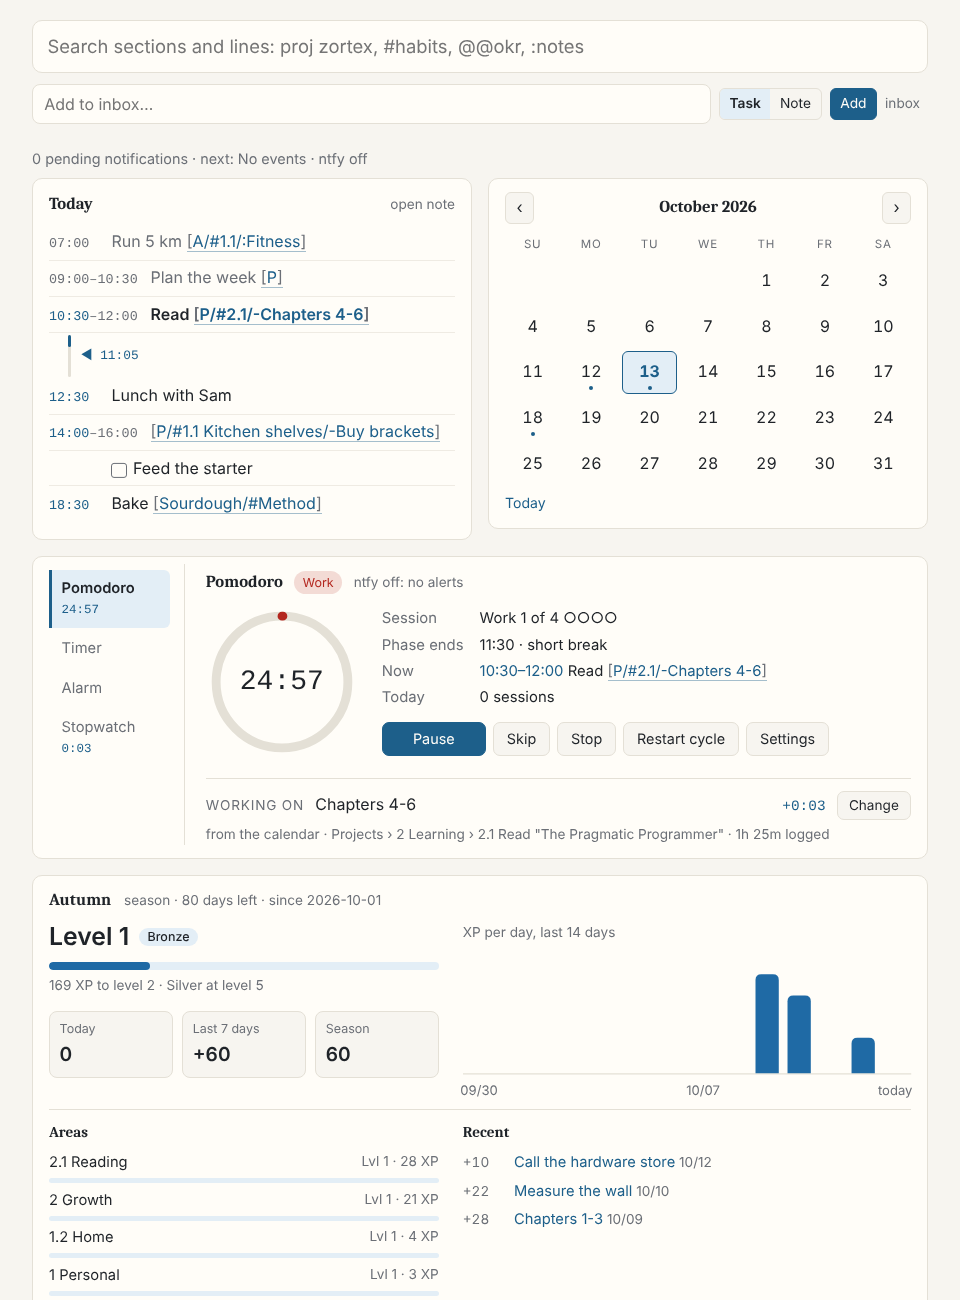
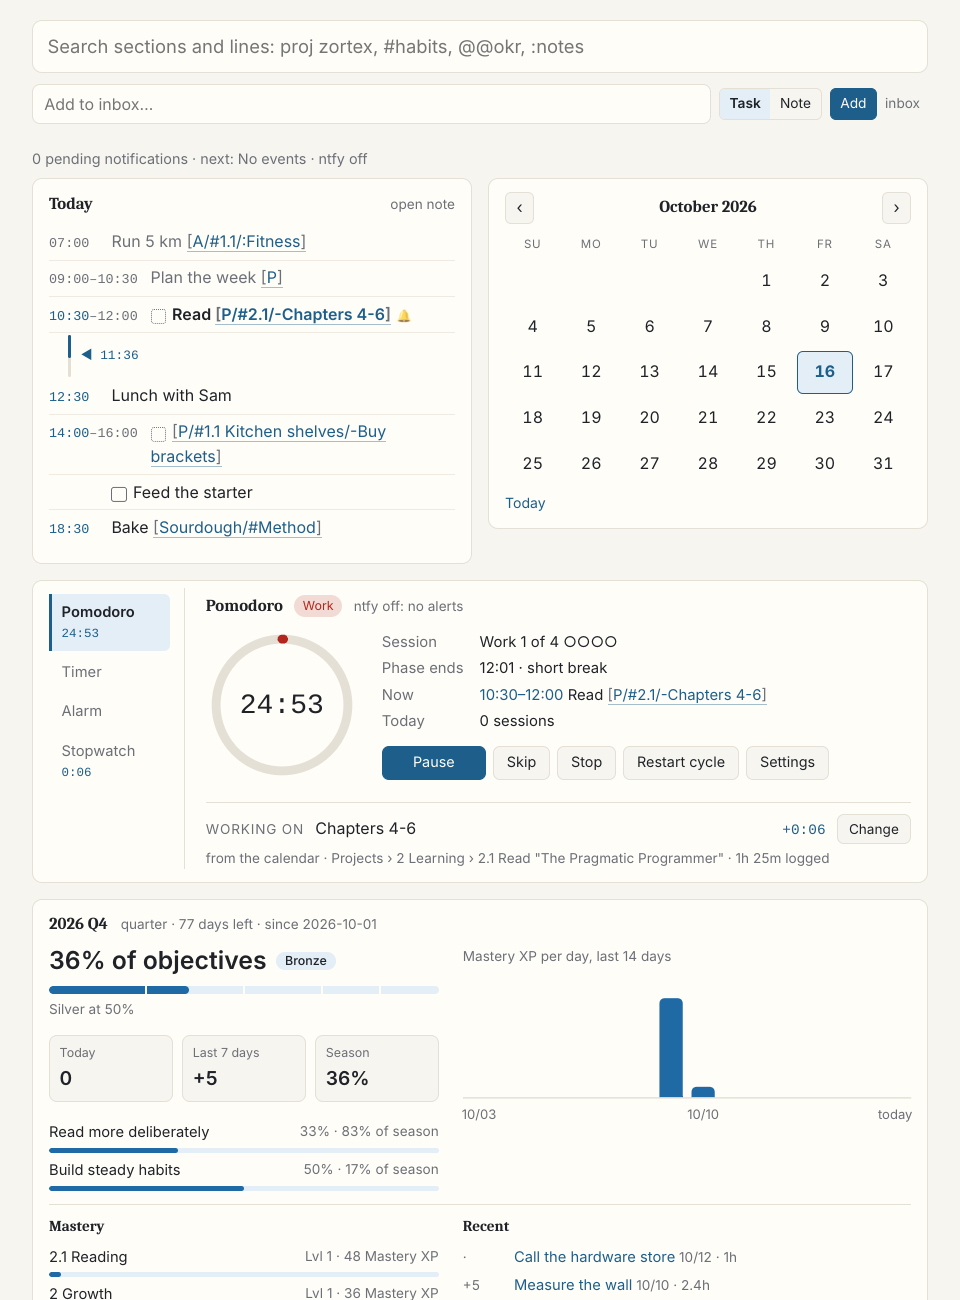
Roadmap, changelog and the home page screenshot
Roadmap # 3 and # 5 done, with what each became; # 3.11 records this
pass, and the one open question (a checkbox on a timed line). CHANGELOG
lists the changes for 0.1.0, the label rule first since it changes how
existing notes parse. doc/images/web-home.png retaken on the example vault.

Claude-Session: https://claude.ai/code/session_017N6NStuDTTGL9eEYWBmXqn

diff --git a/CHANGELOG.md b/CHANGELOG.md
@@ -10,6 +10,49 @@ The first public release.
 
 ### Neovim plugin
 
+- **Labels are short now (a change to how notes parse):** a plain `Text:`
+  line is a label only up to three words; a longer one is written
+  `*A longer label like this one:*`. `:ZortexLongLabels` lists the lines
+  that stopped being labels (and `[:Label]` link targets), to wrap the ones
+  worth keeping.
+- Tag searches take `is:` words: `@[rust is:heading]`, `@[rl is:open, rl
+  is:label]`, `@[P/is:open]` (heading, label, item, task, open, done,
+  resource).
+- Inbox triage: `@project(1.4)` on an inbox line or any task says where it
+  belongs; `m` in the daily review moves it there (with its nested lines),
+  else to `review.inbox_default`, else to a place picked in the search.
+  `@project(` completes the projects.
+- Project blocks: a calendar line holding only a project link, with nothing
+  under it, lists the project's next open tasks in the calendar view; `x`
+  / `2x` ticks one.
+- The only task under a calendar time, ticked without a `@size`, gets the
+  size nearest the block's length (by ratio: 45 minutes is `@md`).
+- `:ZortexRename` (`<leader>zR`) renames the heading or label under the
+  cursor and rewrites every link through it.
+- Broken links show as diagnostics where they are (`features.diagnostics`).
+- `:ZortexBrokenLinks` also lists the tags that go nowhere: tag searches
+  that find nothing, `[@Tag]` links to a tag no note has, bare tags no tag
+  search asks for.
+- `[P/-aB3x9]` finds a task by its `@id`, so links survive renaming it.
+- A note outside `notes_dir` (a repository's `doc/Roadmap.zortex`) resolves
+  its links in its own folder; `[~/P/#…]` reaches `notes_dir`.
+- `@fold` keeps a section folded each time the note is shown.
+- One key table (`lua/zortex/keys.lua`) for the plan, review, calendar
+  view, TOC and preview buffers and the pickers: `?` lists it, the pickers
+  name their keys and the backend's help key in the title, and the README
+  and `:help zortex-keys` are generated from it.
+- XP is said one way, "10 XP = 1 hour of estimated work", with hours next
+  to XP; `xp.area_split` (default 0.5) replaces the harmonic split between
+  areas with a geometric one.
+- Generated links keep `&`, `'`, `,`, `?` and non-ASCII letters; only link
+  syntax, `@` and `|` end them.
+- Moving lines no longer leaves their link icons piled on the next line.
+- `:ZortexTOC` opens on the left.
+- `notifications.types.pomodoro.sound_command` takes arguments (a string or
+  a list, `%s` for the file); macOS plays system sounds by default.
+- The link index builds about 20× faster on a large vault (44 s to 2 s on
+  1,340 notes and 28,000 links).
+
 - `:ZortexMove` (`<leader>zM`, or a visual selection): move the section or
   the line (with its nested lines) under the cursor to a section or line
   picked in the structural search, in any note; headings re-levelled, lines
@@ -145,6 +188,22 @@ The first public release.
   (`features.web.reuse_tab`). `gx` on a tag index's label opens the index.
 
 ### Server (`zortex serve`)
+
+- `/okr` (Objectives in the top bar): objectives against the time passed in
+  their period, their key results and the projects behind them. `/review`:
+  the weekly review's findings, for any week.
+- Hover cards on links: a note's title, path, tags, first lines and
+  backlinks; an image; a website's domain and URL (nothing is fetched).
+- `/graph` lists, under each note, the headings other notes link to.
+- The search page has a Text mode, and with `-data` its own search history
+  (`search_history.json`, never in the notes' `.z/`).
+- `/broken` lists the tags that go nowhere, apart from broken links.
+- The labels rule, `is:` tag searches, `[P/-id]` links and the calendar
+  auto-size are the same as in Neovim (shared fixtures:
+  `autosize.json`, `calendar.json`, `resolve.json`, `search.json`).
+- The web calendar reads entries like Neovim's (`- 14:00 x`, `7:05`, an
+  `@2h` end, four-space nesting), and lists a project block's next tasks.
+- The home page's title is "Zortex"; XP shows its hours of work.
 
 - Task groups as in Neovim (`app/edit` Groups and Cascade, checked against
   `tests/fixtures/groups.json`): project pages list a group's tasks with
